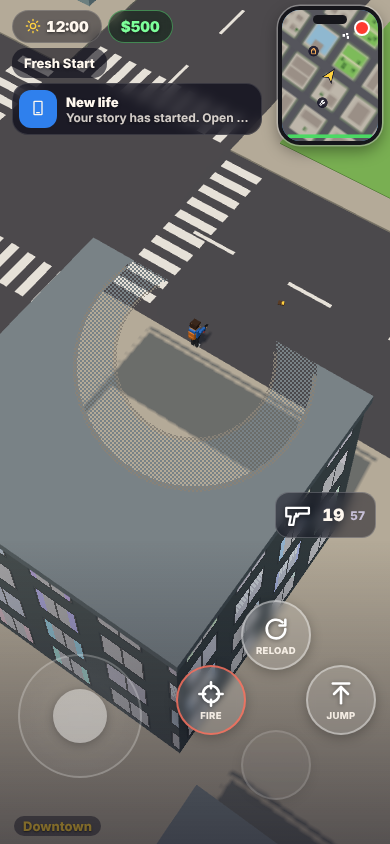
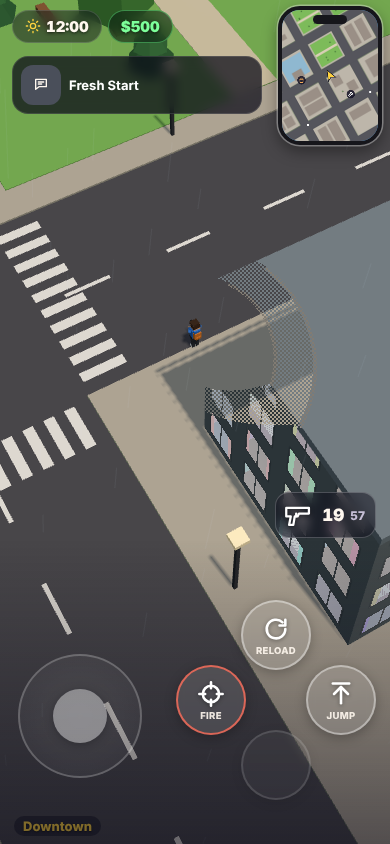
Camera swings stay gentle (never upside down) and the stick eases round with the camera so up stays up on screen
Claude-Session: https://claude.ai/code/session_01BrUA3wBXKGE5wXKywkFFit

diff --git a/js/main.js b/js/main.js
@@ -1,26 +1,26 @@
 import * as THREE from '../lib/three.module.min.js';
-import { buildCharacter, poseCharacter, disposeObject, DEFAULT_CHAR, CHAR_SCHEMA, TATTOO_DESIGNS, TATTOO_SPOTS, tattooCanvas, setFace } from './character.js?v=108';
-import { computeStats, statBars, DEFAULT_GUN, RECEIVERS, PARTS, buildGun } from './gun.js?v=108';
-import { buildCar, computeCarStats, carStatBars, DEFAULT_CAR, CAR_SCHEMA, CAR_PRESETS, CAR_PARTS, BODIES, CAR_PRICES, randomCar, trafficCar } from './car.js?v=108';
-import { WORLD, CHUNK, CITIES, MATS, WATER_Y, SPAWN, LABELS, SIGN, buildChunk, LADDERS, roofAt, wallTop, windowShader, makeOceanMaterial, WATER_U, parkedIn, resolve, walkable, onPier, roadAt, onBridge, objsNear, LANDMARK_BLOCKS, cityAt, zoneName, groundH, solidPoint, drawMap, sandLine, shoreLine, removeCollider, addCollider, FIELDS, blockSide, RAIL, onRail, roadY, dip } from './world.js?v=108';
-import { PLACES, PROPERTIES, GOODS, dealerPrices, OUTFITS, STYLE_NAMES, BARBER_PRICES, RACE, CHOP_VALUE } from './places.js?v=108';
-import { buildPanel, renderStats } from './ui.js?v=108';
-import { Input } from './input.js?v=108';
-import { audio, sfx, engine as engineSound, ambience, radioOn, radioTick, radioSet, radioIndex, STATIONS, setMuted, onSong, nowPlaying, danceStart, danceStop, audioTime } from './audio.js?v=108';
-import { runMinigame } from './minigames.js?v=108';
-import { Peds, bakeCfg, figure, setWalk, setTownSource, setPlayerInk } from './peds.js?v=108';
-import { SLOTS, SLOT, newArsenal, slotStats, maxReserve, ammoBox, smithSchema, SMITH_PRICES, buildWeaponModel, iconSVG, DEFAULT_CFGS } from './weapons.js?v=108';
-import { findRoute } from './nav.js?v=108';
-import { COURSES, CAREERS, QUIZ } from './careers.js?v=108';
-import { EVENTS, EVENT_BY_ID, ARRIVE } from './events.js?v=108';
-import { attachWheel } from './wheel.js?v=108';
-import { Animals } from './animals.js?v=108';
-import { Talk } from './talk.js?v=108';
-import { incomingText, classify, textOptions, textReply } from './texts.js?v=108';
-import { svg, drawIcon } from './icons.js?v=108';
-import { SKILLS, GUN_SKILL_SLOTS, newStats, fixStats, addXP, xpFor, skillName, MAX_LVL, relName, relPriceMod, FOODS, MENUS } from './stats.js?v=108';
-import { FURN, CATALOG } from './furniture.js?v=108';
-import { INTERIORS, ORIGIN, buildInterior, STARTER_FURNITURE, HOME_DEFAULTS } from './interiors.js?v=108';
+import { buildCharacter, poseCharacter, disposeObject, DEFAULT_CHAR, CHAR_SCHEMA, TATTOO_DESIGNS, TATTOO_SPOTS, tattooCanvas, setFace } from './character.js?v=109';
+import { computeStats, statBars, DEFAULT_GUN, RECEIVERS, PARTS, buildGun } from './gun.js?v=109';
+import { buildCar, computeCarStats, carStatBars, DEFAULT_CAR, CAR_SCHEMA, CAR_PRESETS, CAR_PARTS, BODIES, CAR_PRICES, randomCar, trafficCar } from './car.js?v=109';
+import { WORLD, CHUNK, CITIES, MATS, WATER_Y, SPAWN, LABELS, SIGN, buildChunk, LADDERS, roofAt, wallTop, windowShader, makeOceanMaterial, WATER_U, parkedIn, resolve, walkable, onPier, roadAt, onBridge, objsNear, LANDMARK_BLOCKS, cityAt, zoneName, groundH, solidPoint, drawMap, sandLine, shoreLine, removeCollider, addCollider, FIELDS, blockSide, RAIL, onRail, roadY, dip } from './world.js?v=109';
+import { PLACES, PROPERTIES, GOODS, dealerPrices, OUTFITS, STYLE_NAMES, BARBER_PRICES, RACE, CHOP_VALUE } from './places.js?v=109';
+import { buildPanel, renderStats } from './ui.js?v=109';
+import { Input } from './input.js?v=109';
+import { audio, sfx, engine as engineSound, ambience, radioOn, radioTick, radioSet, radioIndex, STATIONS, setMuted, onSong, nowPlaying, danceStart, danceStop, audioTime } from './audio.js?v=109';
+import { runMinigame } from './minigames.js?v=109';
+import { Peds, bakeCfg, figure, setWalk, setTownSource, setPlayerInk } from './peds.js?v=109';
+import { SLOTS, SLOT, newArsenal, slotStats, maxReserve, ammoBox, smithSchema, SMITH_PRICES, buildWeaponModel, iconSVG, DEFAULT_CFGS } from './weapons.js?v=109';
+import { findRoute } from './nav.js?v=109';
+import { COURSES, CAREERS, QUIZ } from './careers.js?v=109';
+import { EVENTS, EVENT_BY_ID, ARRIVE } from './events.js?v=109';
+import { attachWheel } from './wheel.js?v=109';
+import { Animals } from './animals.js?v=109';
+import { Talk } from './talk.js?v=109';
+import { incomingText, classify, textOptions, textReply } from './texts.js?v=109';
+import { svg, drawIcon } from './icons.js?v=109';
+import { SKILLS, GUN_SKILL_SLOTS, newStats, fixStats, addXP, xpFor, skillName, MAX_LVL, relName, relPriceMod, FOODS, MENUS } from './stats.js?v=109';
+import { FURN, CATALOG } from './furniture.js?v=109';
+import { INTERIORS, ORIGIN, buildInterior, STARTER_FURNITURE, HOME_DEFAULTS } from './interiors.js?v=109';
 
 const $ = id => document.getElementById(id);
 let inside = null, editMode = false, held = null, pendingCar = false, homeMusic = false, phoneBadge = 0;
@@ -5238,8 +5238,8 @@ let camDist = 58;
 let camYaw = 0, camYawT = 0, camChkT = 0, camClearT = 0, camBlockT = 0;
 // while your thumb is on the stick, directions stay locked to how the camera was when you pushed it, so the view can swing round
 // without your walk suddenly changing direction. Let go and it picks up the new view.
-let stickYaw = null;
-function camStick() { const s = input.stick; if (s.m < 0.15) { stickYaw = null; return s; } if (stickYaw === null) stickYaw = camYaw; const y = stickYaw; if (Math.abs(y) < 0.01) return s; const c = Math.cos(y), n = Math.sin(y); return { x: s.x * c + s.y * n, y: -s.x * n + s.y * c, m: s.m }; }
+let stickYaw = null, lastDt = 0.016;
+function camStick() { const s = input.stick; if (s.m < 0.15) { stickYaw = null; return s; } if (stickYaw === null) stickYaw = camYaw; else stickYaw += wrapA(camYaw - stickYaw) * Math.min(1, (lastDt || 0.016) * 1.4); const y = stickYaw; /* eases round with the camera, so up stays up on screen without a sudden lurch */ if (Math.abs(y) < 0.01) return s; const c = Math.cos(y), n = Math.sin(y); return { x: s.x * c + s.y * n, y: -s.x * n + s.y * c, m: s.m }; }
 function camBlocked(yaw, x, z, y) { // walk up the sight line from you towards the camera and see if a building pokes through it
   const sx = Math.sin(yaw), sz = Math.cos(yaw), tp = Math.tan((56 * DEG) - (1 - Math.min(1, zoom)) * 0.45);
   for (let h = 1.2; h < 34; h += 1.4) { const px = x + sx * h, pz = z + sz * h, top = wallTop(px, pz); if (top != null && top > y + 1.4 + h * tp) return true; }
@@ -5249,7 +5249,7 @@ function updateCamYaw(dt) {
   if (inside || state !== 'play') { camYawT = 0; }
   else { camChkT -= dt; if (camChkT <= 0) { camChkT = 0.15; const f = focusPos(), y = ride ? (ride.s.y || 0) : P.y;
     const curBlocked = camBlocked(camYawT, f.x, f.z, y), homeClear = !camBlocked(0, f.x, f.z, y);
-    if (curBlocked) { camBlockT += 0.15; camClearT = 0; if (camBlockT > (ride ? 0.45 : 0.25)) { let best = null; const C = [0, 0.55, -0.55, 1.1, -1.1, 1.7, -1.7, 2.4, -2.4, Math.PI], near = (a, b2) => Math.abs(wrapA(a - camYaw)) < Math.abs(wrapA(b2 - camYaw)); for (const wide of [true, false]) { for (const c of C) if (!camBlocked(c, f.x, f.z, y) && (!wide || (!camBlocked(c + 0.28, f.x, f.z, y) && !camBlocked(c - 0.28, f.x, f.z, y))) && (best === null || near(c, best))) best = c; if (best !== null) break; } if (best !== null) camYawT = best; camBlockT = 0; } }
+    if (curBlocked) { camBlockT += 0.15; camClearT = 0; if (camBlockT > (ride ? 0.45 : 0.25)) { let best = null; const C = [0, 0.45, -0.45, 0.85, -0.85, 1.15, -1.15], near = (a, b2) => Math.abs(wrapA(a - camYaw)) < Math.abs(wrapA(b2 - camYaw)); for (const wide of [true, false]) { for (const c of C) if (!camBlocked(c, f.x, f.z, y) && (!wide || (!camBlocked(c + 0.28, f.x, f.z, y) && !camBlocked(c - 0.28, f.x, f.z, y))) && (best === null || near(c, best))) best = c; if (best !== null) break; } if (best !== null) camYawT = best; camBlockT = 0; } }
     else { camBlockT = 0; if (camYawT !== 0 && homeClear) { camClearT += 0.15; if (camClearT > 1.2) { camYawT = 0; camClearT = 0; } } else camClearT = 0; } } }
   camYaw += wrapA(camYawT - camYaw) * Math.min(1, dt * 2.2); if (Math.abs(wrapA(camYawT - camYaw)) < 0.002) camYaw = camYawT;
 }
@@ -6092,7 +6092,7 @@ function saveGame() {
   store.set('bc_save', save); store.set('bc_arsenal', arsenal); store.set('bc_cars', garage);
 }
 // auto-update: bookmarks and home-screen apps can hold on to an old copy. Check version.json (never cached) and reload once if newer.
-const BUILD = 108;
+const BUILD = 109;
 function checkUpdate() {
   fetch('version.json?t=' + Date.now(), { cache: 'no-store' }).then(r => r.json()).then(j => {
     if (!(j.v > BUILD)) return;
@@ -6219,7 +6219,7 @@ function newDay() {
   if (inc) { money += inc; floatMoney(inc); toast(`New day · property income +${fmt(inc)}`, 3.5); } else toast('New day · dealer prices changed', 3);
   phoneBadge++;
 }
-function step(dt) {
+function step(dt) { lastDt = dt;
   time += dt; WATER_U.uTime.value = time;
   const before = clockH, dh = dt / 30; clockH += dh; if (clockH >= 24) clockH -= 24;
   if (before < 6 && clockH >= 6) newDay();

diff --git a/js/animals.js b/js/animals.js
@@ -2,7 +2,7 @@
 // stray cats, dogs out on walks with their owners, squirrels, deer in the hills by day, and raccoons,
 // possums, coyotes and owls at night. All low-poly, baked into a few meshes each so they're cheap to draw.
 import * as THREE from '../lib/three.module.min.js';
-import { CITIES, LAMPS, FIELDS, sandLine, shoreLine, walkable, groundH, cityAt, roadAt, wallTop } from './world.js?v=108';
+import { CITIES, LAMPS, FIELDS, sandLine, shoreLine, walkable, groundH, cityAt, roadAt, wallTop } from './world.js?v=109';
 // a spot on a nearby rooftop (roof edge-ish), or null
 function roofSpot(x, z, rMin = 8, rMax = 45) { for (let i = 0; i < 10; i++) { const a = Math.random() * 6.28, d = rMin + Math.random() * (rMax - rMin), px = x + Math.sin(a) * d, pz = z + Math.cos(a) * d, t = wallTop(px, pz); if (t != null && t > 3 && t < 40) return { x: px, z: pz, y: t + 0.02 }; } return null; }
 

diff --git a/js/interiors.js b/js/interiors.js
@@ -1,9 +1,9 @@
 // Enterable interiors. Rooms are built far away from the city (at ORIGIN) and the player is moved
 // there, so the normal movement, camera and collision code keeps working. South wall is cut away.
 import * as THREE from '../lib/three.module.min.js';
-import { FURN, buildFurn } from './furniture.js?v=108';
-import { addCollider, removeCollider } from './world.js?v=108';
-import { buildCar } from './car.js?v=108';
+import { FURN, buildFurn } from './furniture.js?v=109';
+import { addCollider, removeCollider } from './world.js?v=109';
+import { buildCar } from './car.js?v=109';
 
 export const ORIGIN = { x: 0, z: 2600 };
 const T = (name, w, d, floor, wall, items, npcs, spots, extra = {}) => ({ name, w, d, floor, wall, items, npcs, spots, ...extra });

diff --git a/js/peds.js b/js/peds.js
@@ -1,7 +1,7 @@
 // Pedestrians: baked low-poly people who stroll sidewalks, wander the beach, flee from trouble.
 import * as THREE from '../lib/three.module.min.js';
-import { buildCharacter, randomChar, disposeObject } from './character.js?v=108';
-import { CITIES, sandLine, shoreLine, groundH, walkable as worldWalkable, resolve } from './world.js?v=108';
+import { buildCharacter, randomChar, disposeObject } from './character.js?v=109';
+import { CITIES, sandLine, shoreLine, groundH, walkable as worldWalkable, resolve } from './world.js?v=109';
 // interiors swap in their own floor test so brawlers can move around inside
 let walkable = worldWalkable; export function setWalk(fn) { walkable = fn || worldWalkable; }
 

diff --git a/js/talk.js b/js/talk.js
@@ -1,8 +1,8 @@
 // Conversations staged like a Pokémon battle: they stand on a platform facing you,
 // you see the back of your own head in the foreground, subtitles type out, you pick replies.
 import * as THREE from '../lib/three.module.min.js';
-import { buildCharacter, poseCharacter, disposeObject } from './character.js?v=108';
-import { sfx, audio } from './audio.js?v=108';
+import { buildCharacter, poseCharacter, disposeObject } from './character.js?v=109';
+import { sfx, audio } from './audio.js?v=109';
 
 const $ = id => document.getElementById(id);
 const BG = {

diff --git a/index.html b/index.html
@@ -12,7 +12,7 @@
 <link rel="manifest" href="manifest.json">
 <link rel="apple-touch-icon" href="icon.png">
 <title>Bay City</title>
-<link rel="stylesheet" href="css/style.css?v=108">
+<link rel="stylesheet" href="css/style.css?v=109">
 </head>
 <body>
 <canvas id="c"></canvas>
@@ -111,6 +111,6 @@
 
 <div id="rotate"><div>Turn your phone upright<br><small>Bay City is played in portrait</small></div></div>
 
-<script type="module" src="js/main.js?v=108"></script>
+<script type="module" src="js/main.js?v=109"></script>
 </body>
 </html>

diff --git a/js/car.js b/js/car.js
@@ -1,7 +1,7 @@
 // Modular car builder. Car faces +Z, sits on y=0, origin at the centre of the wheelbase.
 import * as THREE from '../lib/three.module.min.js';
-import { BASIC } from './character.js?v=108';
-import { patternTexture } from './gun.js?v=108';
+import { BASIC } from './character.js?v=109';
+import { patternTexture } from './gun.js?v=109';
 
 export const BODIES = {
   hatch:  { label: 'Hatchback', L: 3.8, W: 1.75, bh: 0.55, cl: 2.0, ch: 0.62, co: -0.4,  wr: 0.34, mass: 1.0 },

diff --git a/js/weapons.js b/js/weapons.js
@@ -1,6 +1,6 @@
 // The arsenal: every weapon slot, how it looks in the hand, its stats and its icon.
 import * as THREE from '../lib/three.module.min.js';
-import { buildGun, computeStats, GUN_PRESETS, DEFAULT_GUN, GUN_SCHEMA } from './gun.js?v=108';
+import { buildGun, computeStats, GUN_PRESETS, DEFAULT_GUN, GUN_SCHEMA } from './gun.js?v=109';
 
 export const SLOTS = [
   { id: 'fist', name: 'Fists', kind: 'melee', price: 0 },

diff --git a/js/minigames.js b/js/minigames.js
@@ -1,6 +1,6 @@
 // Touch minigames in the spirit of Chinatown Wars. Each one draws on a 2D canvas overlay.
-import { sfx, audio } from './audio.js?v=108';
-import { drawIcon } from './icons.js?v=108';
+import { sfx, audio } from './audio.js?v=109';
+import { drawIcon } from './icons.js?v=109';
 
 const rnd = (a, b) => a + Math.random() * (b - a);
 const pick = a => a[Math.floor(Math.random() * a.length)];

diff --git a/js/gun.js b/js/gun.js
@@ -1,6 +1,6 @@
 // Modular gun builder + stat model. Gun points along +Z, origin at the top of the grip (where the hand goes).
 import * as THREE from '../lib/three.module.min.js';
-import { BASIC } from './character.js?v=108';
+import { BASIC } from './character.js?v=109';
 
 // Base stats per frame. Every other part multiplies these.
 export const RECEIVERS = {

diff --git a/js/nav.js b/js/nav.js
@@ -1,5 +1,5 @@
 // GPS: A* over a road mask so waypoints draw a route along the streets, like GTA.
-import { WORLD, roadAt } from './world.js?v=108';
+import { WORLD, roadAt } from './world.js?v=109';
 
 const C = 6, X0 = WORLD.x0, Z0 = WORLD.z0;
 const NX = Math.ceil((WORLD.x1 - X0) / C), NZ = Math.ceil((WORLD.z1 - Z0) / C), N = NX * NZ;

diff --git a/js/places.js b/js/places.js
@@ -1,5 +1,5 @@
 // Everything you can walk or drive up to: shops, barbers, property, dealers, minigames, chop shop, race.
-import { blockSide, attachDoor, addStructure } from './world.js?v=108';
+import { blockSide, attachDoor, addStructure } from './world.js?v=109';
 
 const S = (city, i, j, side) => blockSide(city, i, j, side);
 
